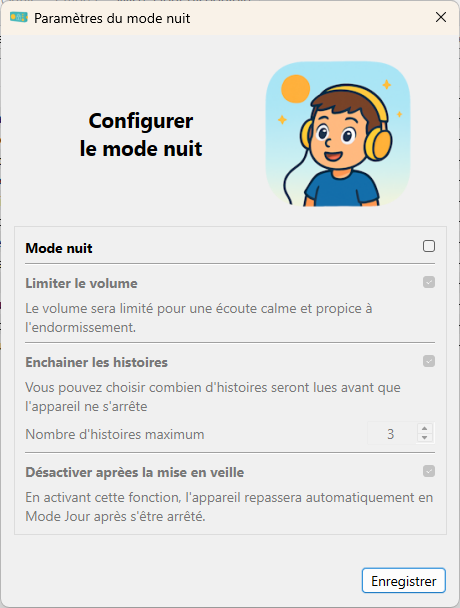
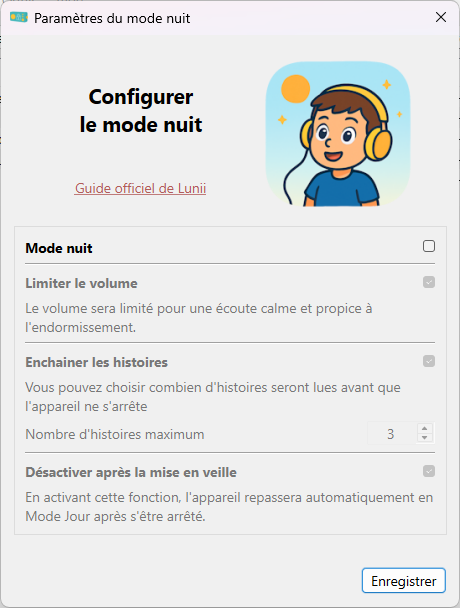
version bump to final v3.0.0 screenshots fixed flam backup allowed

Changed region(s): [[0.1522, 0.125, 0.4565, 0.3438], [0.2739, 0.75, 0.5174, 0.7812]]

diff --git a/pkg/main_window.py b/pkg/main_window.py
@@ -39,7 +39,7 @@ COL_UUID_SIZE = 250
 COL_SIZE_SIZE = 90
 COL_EXTRA = 40
 
-APP_VERSION = "v3.0.0a3"
+APP_VERSION = "v3.0.0"
 
 """ 
 # TODO : 
@@ -718,10 +718,10 @@ class MainWindow(QMainWindow, Ui_MainWindow):
                     (self.audio_device.device_version == LUNII_V3 and self.audio_device.device_key)):
                 self.act_export.setEnabled(True)
 
-            # Official story export is forbidden
-            if not constants.REFRESH_CACHE:
+            # Official story export is forbidden for Luniis (no piracy on Flam)
+            if self.audio_device.device_version < LUNII_V3:
                 selected = self.tree_stories.selectedItems()
-                if len(selected) == 1:
+                if len(selected) == 1 and not constants.REFRESH_CACHE:
                     one_story = self.audio_device.stories.get_story(selected[0].text(COL_UUID))
                     if one_story.is_official():
                         self.act_export.setEnabled(False)
